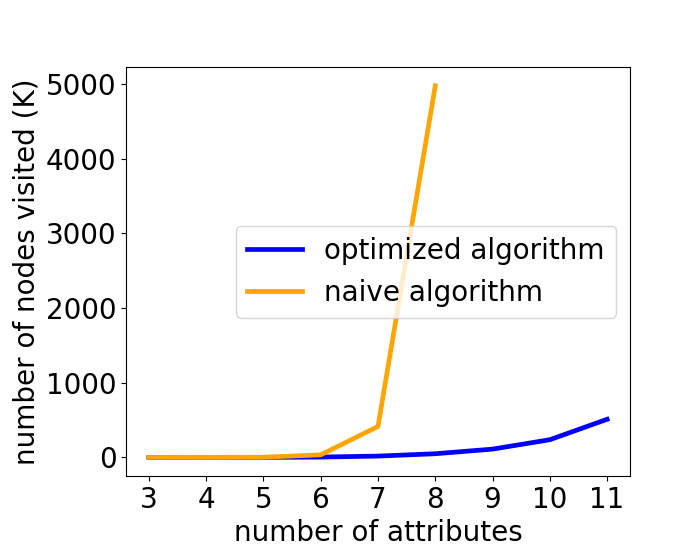
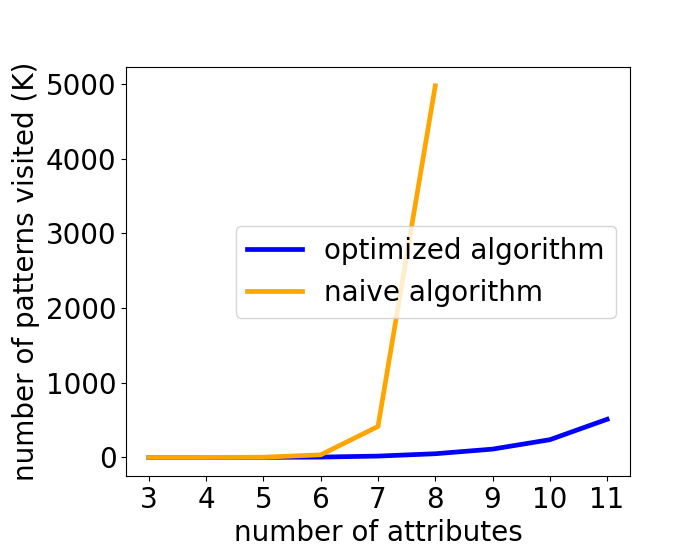
low acc, credit, num att

Changed region(s): [[0.0, 0.1214, 0.06, 0.8804]]

diff --git a/Coding/Experiments/AccuracyFairness/CreditcardData/num_attributes_0_20210201.py b/Coding/Experiments/AccuracyFairness/CreditcardData/num_attributes_0_20210201.py
@@ -8,7 +8,7 @@ x axis: the number of attributes, from 2 to 13.
 
 other parameters:
 credit_card_clients_categorized.csv: 30,000
-threshold of cardinality Thc = 30
+size threshold Thc = 30
 threshold of minority group accuracy: overall acc - 20
 """
 
@@ -229,7 +229,7 @@ fig, ax = plt.subplots()
 plt.plot(x_new, num_calculation1, label="optimized algorithm", color='blue', linewidth = 3.4)
 plt.plot(x_naive, num_calculation2, label="naive algorithm", color='orange', linewidth = 3.4)
 plt.xlabel('number of attributes')
-plt.ylabel('number of nodes visited (K)')
+plt.ylabel('number of patterns visited (K)')
 
 ax.yaxis.set_major_formatter(FuncFormatter(thousands_formatter))
 

diff --git a/Coding/Experiments/AccuracyFairness/CreditcardData/num_attributes_1_20210629.py b/Coding/Experiments/AccuracyFairness/CreditcardData/num_attributes_1_20210629.py
@@ -8,7 +8,7 @@ x axis: the number of attributes, from 2 to 13.
 
 other parameters:
 credit_card_clients_categorized.csv: 30,000
-threshold of cardinality Thc = 30
+size threshold Thc = 30
 threshold of minority group accuracy: overall acc - 20
 """
 
@@ -237,7 +237,7 @@ fig, ax = plt.subplots()
 plt.plot(x_new, num_calculation1, label="optimized algorithm", color='blue', linewidth = 3.4)
 plt.plot(x_naive, num_calculation2, label="naive algorithm", color='orange', linewidth = 3.4)
 plt.xlabel('number of attributes')
-plt.ylabel('number of nodes visited (K)')
+plt.ylabel('number of patterns visited (K)')
 
 ax.yaxis.set_major_formatter(FuncFormatter(thousands_formatter))
 
